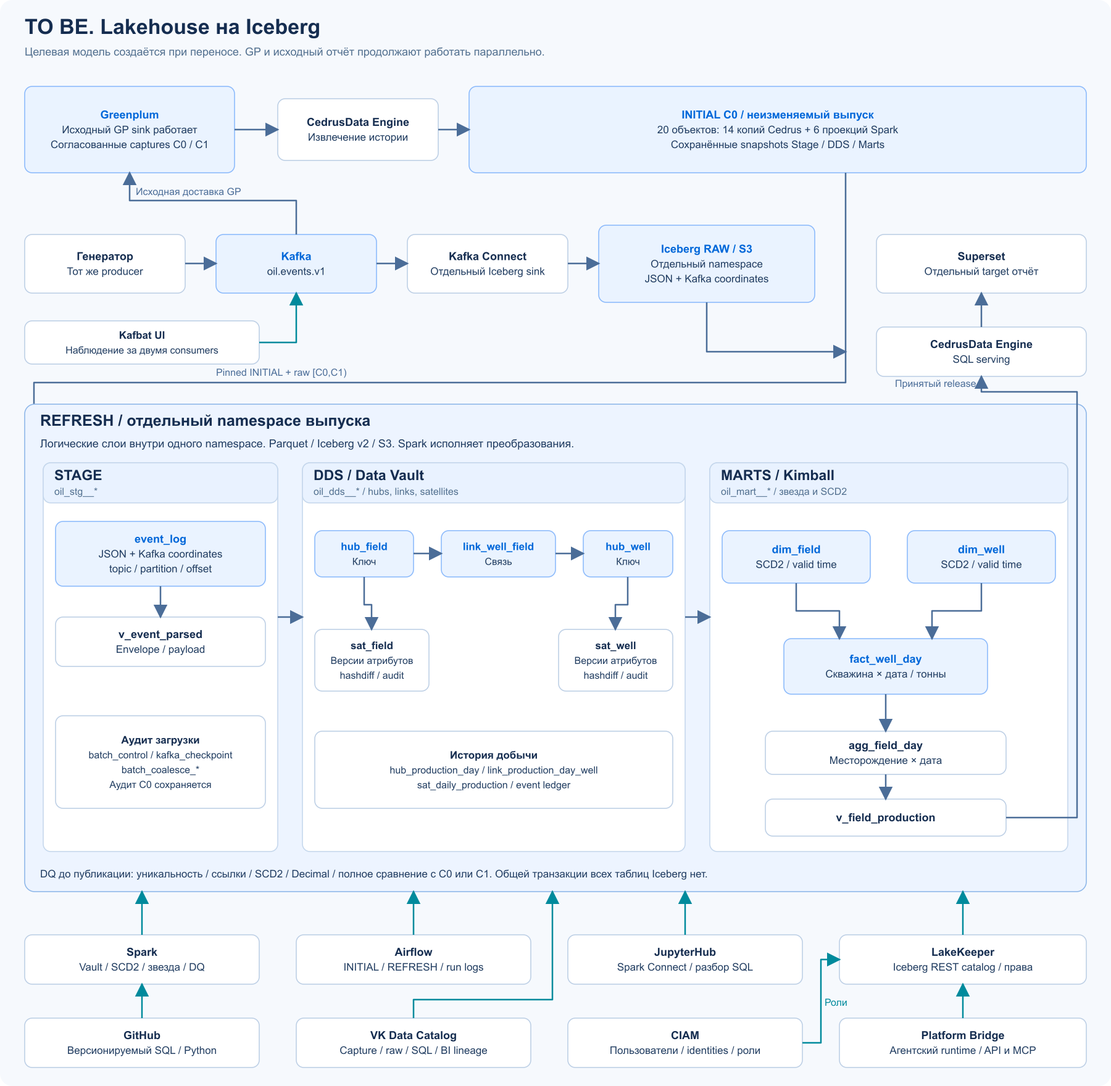
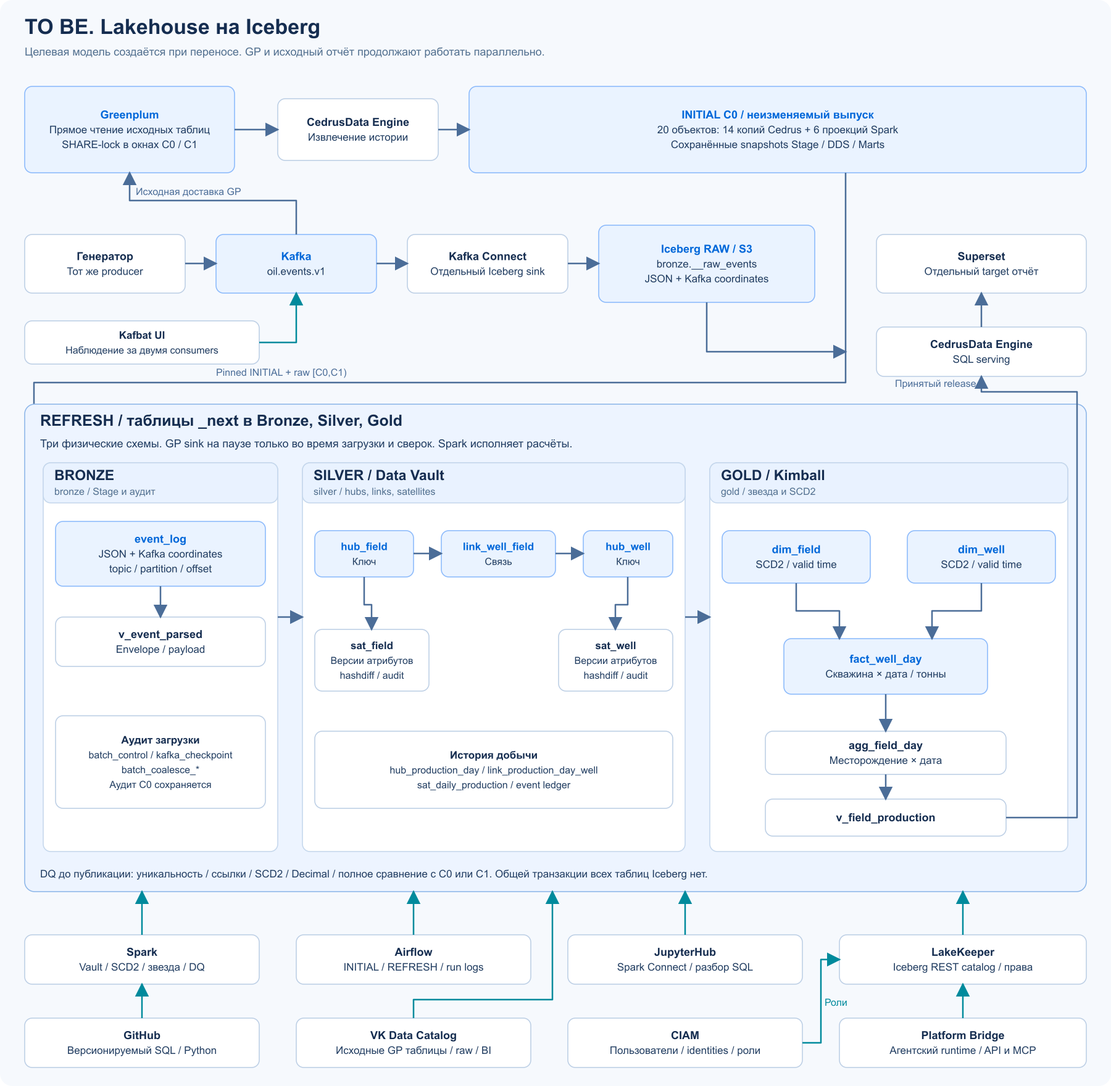
Read original Greenplum tables under verified native source locks

diff --git a/pipelines/oil_layered_migration/oil_layered_runtime.py b/pipelines/oil_layered_migration/oil_layered_runtime.py
@@ -12,8 +12,7 @@ from pathlib import Path
 from oil_layered_plan import OPERATIONS
 
 LAYERS = {'oil_stg': 'bronze', 'oil_dds': 'silver', 'oil_mart': 'gold'}
-CAPTURES = {'initial': 'pbc_00000000000000000001_00000001',
-            'refresh': 'pbc_00000000000000000001_00000002'}
+BOUNDARIES = {'initial': 'C0', 'refresh': 'C1'}
 RAW = 'dlh.bronze.__raw_events'
 
 
@@ -30,7 +29,7 @@ def overlap_window(p0, p1, overlap_offsets=10):
 def target(symbol, mode='initial'):
     """Resolve a fixed source symbol to its explicit physical Lakehouse table."""
     schema, name = symbol.split('__', 1)
-    if schema not in LAYERS or mode not in CAPTURES or not re.fullmatch(r'[a-z][a-z0-9_]*', name):
+    if schema not in LAYERS or mode not in BOUNDARIES or not re.fullmatch(r'[a-z][a-z0-9_]*', name):
         raise ValueError('Unknown object or release')
     return 'dlh.' + LAYERS[schema] + '.' + name + ('_next' if mode == 'refresh' else '')
 
@@ -50,9 +49,9 @@ def atomic_write(path, state):
 
 
 class Runner:
-    def __init__(self, client, mode, run_id, state_dir=None, sql_dir=None, spark_factory=None, overlap_offsets=10):
+    def __init__(self, client, mode, run_id, state_dir=None, sql_dir=None, spark_factory=None, overlap_offsets=10, source_guard=None):
         """Bind a single DAG run to reviewed SQL, private receipts and fixed target names."""
-        if mode not in CAPTURES:
+        if mode not in BOUNDARIES:
             raise ValueError('mode must be initial or refresh')
         self.client, self.mode, self.run_id = client, mode, str(run_id)
         self.root = Path(state_dir or os.environ.get('OIL_LAYERED_STATE_DIR', '/opt/airflow/logs/oil_layered_migration'))
@@ -60,11 +59,15 @@ class Runner:
         self.sql_dir = Path(sql_dir or Path(__file__).parent / 'sql')
         self.spark_factory = spark_factory
         self.overlap_offsets = overlap_offsets
+        if source_guard is None:
+            raise ValueError('A verified native source lock is required')
+        self.source_guard = source_guard
 
     def contract_hash(self):
         """Pin the plan, runtime and exact native SQL before any target write."""
         sources = {p.relative_to(self.sql_dir).as_posix(): p.read_text() for p in sorted(self.sql_dir.rglob('*.sql'))}
-        return fingerprint({'operations': OPERATIONS, 'sql': sources, 'runtime': Path(__file__).read_text()})
+        guard_path = Path(__file__).with_name('oil_source_lock.py')
+        return fingerprint({'operations': OPERATIONS, 'sql': sources, 'runtime': Path(__file__).read_text(), 'source_guard': guard_path.read_text()})
 
     def load(self):
         """Reject another run's receipt before trusting any completed operation."""
@@ -92,19 +95,13 @@ class Runner:
         rows = self.client.sql('SHOW CREATE TABLE ' + table)
         return fingerprint(rows)
 
-    def manifest(self, capture_id):
-        """Read a previously committed source capture; never capture or mutate GP here."""
-        if capture_id not in CAPTURES.values():
-            raise ValueError('Unknown capture')
-        rows = self.client.sql("SELECT manifest FROM greenplum_gp.bridge_capture.registry WHERE capture_id='" + capture_id + "'")
-        if len(rows) != 1:
-            raise ValueError('Create and COMMIT the source capture first')
-        value = rows[0]['manifest']
-        value = json.loads(value) if isinstance(value, str) else value
+    def manifest(self):
+        """Describe live committed source tables protected by the operator's native locks."""
+        value = self.source_guard.inspect(self.mode, OPERATIONS, self.client)
         if value.get('source_checks') != 'PASS' or value.get('topic') != 'oil.events.v1':
-            raise ValueError('Source capture did not pass its contract')
+            raise ValueError('Locked source did not pass its contract')
         if set(value['tables']) != {o['symbol'] for o in OPERATIONS}:
-            raise ValueError('Capture must contain exactly the approved 20 objects')
+            raise ValueError('Boundary must contain exactly the approved 20 objects')
         return value
 
     def prepare(self):
@@ -115,7 +112,7 @@ class Runner:
         if pointer.exists():
             raise FileExistsError('This release is already accepted; do not overwrite it')
         state = {'run_id': self.run_id, 'mode': self.mode, 'status': 'PREPARED',
-                 'manifest': self.manifest(CAPTURES[self.mode]), 'steps': {}, 'targets': {}, 'checks': [], 'contract_hash': self.contract_hash()}
+                 'manifest': self.manifest(), 'steps': {}, 'targets': {}, 'checks': [], 'contract_hash': self.contract_hash()}
         for op in OPERATIONS:
             table = target(op['symbol'], self.mode)
             if self.count(table) != 0:
@@ -151,12 +148,13 @@ class Runner:
                 if time.monotonic() >= deadline:
                     raise ValueError('Raw window is incomplete; no target data was written')
                 time.sleep(2)
+        self.source_guard.assert_held()
         self.save(state)
-        print(json.dumps({'status': 'PREPARED', 'mode': self.mode, 'capture_id': state['manifest']['capture_id'], 'receipt': str(self.path), 'window': state.get('window'), 'raw_snapshot': state.get('raw_snapshot')}))
+        print(json.dumps({'status': 'PREPARED', 'mode': self.mode, 'boundary_id': state['manifest']['boundary_id'], 'source_lock': state['manifest']['source_lock'], 'receipt': str(self.path), 'window': state.get('window'), 'raw_snapshot': state.get('raw_snapshot')}))
         return {'receipt': str(self.path), 'targets': 20}
 
     def render(self, query, dialect, state):
-        """Resolve only approved objects, pinned INITIAL/raw snapshots and capture tables."""
+        """Resolve original GP objects under native locks and pinned INITIAL/raw snapshots."""
         def replace(match):
             """Substitute one fixed source, target or historical reference."""
             side, symbol = match.groups()
@@ -169,9 +167,9 @@ class Runner:
                 return '(SELECT * FROM ' + target(symbol) + ' WHERE false)' if snap is None else target(symbol) + (' VERSION AS OF ' if dialect == 'spark' else ' FOR VERSION AS OF ') + str(snap)
             source = state['manifest']['tables'][symbol]
             name = source['table']
-            if source['schema'] != 'bridge_capture' or not re.fullmatch(r'pbc_[a-f0-9]{20}_[a-f0-9]{8}_[a-f0-9]{12}', name):
-                raise ValueError('Invalid source copy identity')
-            return 'greenplum_gp.bridge_capture.' + name
+            if (source['schema'], name) != tuple(symbol.split('__', 1)):
+                raise ValueError('Source relation differs from the reviewed object')
+            return 'greenplum_gp.' + source['schema'] + '.' + name
         value = re.sub(r'\{\{(source|target|initial):([^}]+)\}\}', replace, query)
         if '{{delta}}' in value:
             windows = ['(kafka_partition={partition} AND kafka_offset>={read_start} AND kafka_offset<{end})'.format(**p) for p in state['window']]
@@ -187,6 +185,7 @@ class Runner:
     def materialize(self, symbol):
         """Write one table, validate its keys/data, then permit dependent tasks to proceed."""
         state = self.load()
+        self.source_guard.assert_held()
         op = next(o for o in OPERATIONS if o['symbol'] == symbol)
         if state['status'] not in ('PREPARED', 'BUILDING') or symbol in state['steps']:
             raise ValueError('Run is not writable or the task was already attempted')
@@ -232,6 +231,7 @@ class Runner:
                     spark.close()
                 except Exception:
                     pass
+        self.source_guard.assert_held()
         for check in op['checks']:
             if check['phase'] not in ('both', self.mode):
                 continue
@@ -243,6 +243,7 @@ class Runner:
             self.save(state)
             if result[0]['n'] != 0:
                 raise ValueError('Quality gate failed: ' + symbol + '.' + check['name'])
+        self.source_guard.assert_held()
         state['steps'][symbol]['state'] = 'VALIDATED'
         self.save(state)
         print(json.dumps({'table': table, 'status': 'VALIDATED', 'snapshot': state['steps'][symbol]['snapshot']}))
@@ -251,6 +252,7 @@ class Runner:
     def validate_all(self):
         """Accept all twenty tables only when all phase checks and snapshot identities match."""
         state = self.load()
+        self.source_guard.assert_held()
         if set(state['steps']) != {o['symbol'] for o in OPERATIONS}:
             raise ValueError('Not all twenty tables were materialized')
         for symbol, step in state['steps'].items():

diff --git a/pipelines/oil_layered_migration/oil_source_lock.py b/pipelines/oil_layered_migration/oil_source_lock.py
@@ -1,0 +1,91 @@
+"""Verify an operator-held GP transaction instead of materializing source copies.
+
+Cedrus connections do not share an external snapshot. Native SHARE locks keep
+the committed source stable for every reader until INITIAL/REFRESH is checked.
+"""
+from datetime import datetime, timezone
+import re
+
+SCHEMAS = ('oil_stg', 'oil_dds', 'oil_mart')
+
+
+def connect_source():
+    """Use the existing Airflow identity only for read-only lock inspection."""
+    from airflow.models.connection import Connection
+    import psycopg2
+    c = Connection.get_connection_from_secrets('webinar_greenplum')
+    options = {k: v for k, v in c.extra_dejson.items()
+               if k in {'sslmode', 'sslrootcert', 'sslcert', 'sslkey', 'sslcrl', 'options'}}
+    return psycopg2.connect(host=c.host, port=c.port or 5432, dbname=c.schema,
+                            user=c.login, password=c.password, connect_timeout=15, **options)
+
+
+class SourceLock:
+    def __init__(self, token, connection_factory=connect_source):
+        """Bind the exact backend and virtual transaction, never just a reusable PID."""
+        if not isinstance(token, dict) or set(token) != {'pid', 'database_oid', 'virtualtransaction'}:
+            raise ValueError('Provide source_lock JSON printed by the GP lock script')
+        if any(type(token[k]) is not int or token[k] <= 0 for k in ['pid', 'database_oid']):
+            raise ValueError('Invalid source lock identity')
+        if not re.fullmatch(r'[0-9]+/[0-9]+', str(token['virtualtransaction'])):
+            raise ValueError('Invalid source virtual transaction')
+        self.token, self.connection_factory = dict(token), connection_factory
+
+    def assert_held(self):
+        """Require all source tables to retain granted write-blocking locks in that transaction."""
+        db = self.connection_factory()
+        try:
+            with db.cursor() as cur:
+                cur.execute("SELECT oid FROM pg_database WHERE datname=current_database()")
+                if int(cur.fetchone()[0]) != self.token['database_oid']:
+                    raise ValueError('Source database identity changed')
+                cur.execute("""SELECT n.nspname,c.relname,c.oid,
+                    EXISTS(SELECT 1 FROM pg_locks l WHERE l.pid=%s AND l.database=%s
+                        AND l.virtualtransaction=%s AND l.relation=c.oid AND l.granted
+                        AND (l.mode IN ('ShareLock','ShareRowExclusiveLock','ExclusiveLock','AccessExclusiveLock')
+                             OR (c.relkind='v' AND l.mode='AccessShareLock')))
+                    FROM pg_class c JOIN pg_namespace n ON n.oid=c.relnamespace
+                    WHERE n.nspname IN ('oil_stg','oil_dds','oil_mart')
+                        AND (c.relkind='r' OR (n.nspname='oil_stg' AND c.relname='v_event_parsed')
+                             OR (n.nspname='oil_mart' AND c.relname='v_field_production'))
+                    ORDER BY n.nspname,c.relname""",
+                    (self.token['pid'], self.token['database_oid'], self.token['virtualtransaction']))
+                relations = cur.fetchall()
+                if not relations or any(not row[3] for row in relations):
+                    raise ValueError('Source write lock was released or does not cover every source table')
+                cur.execute("""SELECT n.nspname,c.relname,c.oid FROM pg_class c
+                    JOIN pg_namespace n ON n.oid=c.relnamespace
+                    WHERE n.nspname IN ('oil_stg','oil_dds','oil_mart') AND c.relkind IN ('r','v')""")
+                return {(r[0], r[1]): int(r[2]) for r in cur.fetchall()}
+        finally:
+            db.rollback()
+            db.close()
+
+    def inspect(self, mode, operations, client):
+        """Read committed, fully applied source data while the separate operator transaction holds locks."""
+        identities = self.assert_held()
+        checks = {
+            'unapplied_batches': "SELECT count(*) n FROM greenplum_gp.oil_stg.batch_control WHERE source_name='kafka:oil.events.v1' AND status IN ('OPEN','READY','FAILED')",
+            'rejects': 'SELECT count(*) n FROM greenplum_gp.oil_stg.event_reject',
+            'stage_ledger': "SELECT count(*) n FROM greenplum_gp.oil_stg.event_log s LEFT JOIN greenplum_gp.oil_dds.event d ON d.event_id=json_extract_scalar(s.event_json,'$.event_id') WHERE s.topic='oil.events.v1' AND (d.event_id IS NULL OR d.event_document<>s.event_json)",
+            'coalesced_batches': "SELECT count(*) n FROM greenplum_gp.oil_stg.batch_coalesce_map m LEFT JOIN greenplum_gp.oil_stg.batch_control b ON b.batch_id=m.coalesced_batch_id WHERE b.batch_id IS NULL OR b.status<>'APPLIED'",
+        }
+        for name, query in checks.items():
+            if client.sql(query) != [{'n': 0}]:
+                raise ValueError('Source is not fully applied: ' + name + '; release locks and finish the source DAG')
+        positions = client.sql("SELECT kafka_partition,next_offset FROM greenplum_gp.oil_stg.kafka_checkpoint WHERE topic='oil.events.v1' ORDER BY kafka_partition")
+        if not positions or len({r['kafka_partition'] for r in positions}) != len(positions):
+            raise ValueError('Source checkpoints missing or ambiguous')
+        tables = {}
+        for op in operations:
+            schema, table = op['symbol'].split('__', 1)
+            if schema not in SCHEMAS or not re.fullmatch(r'[a-z][a-z0-9_]*', table):
+                raise ValueError('Source outside reviewed scope')
+            tables[op['symbol']] = {'schema': schema, 'table': table,
+                'oid': identities[(schema, table)], 'columns': op['columns'],
+                'rows': client.sql('SELECT count(*) n FROM greenplum_gp.' + schema + '.' + table)[0]['n']}
+        self.assert_held()
+        return {'boundary_id': 'C0' if mode == 'initial' else 'C1', 'provider': 'gp_locked_source',
+                'source_lock': self.token, 'source_checks': 'PASS', 'topic': 'oil.events.v1',
+                'captured_at': datetime.now(timezone.utc).isoformat(), 'tables': tables,
+                'partitions': [{'partition': int(r['kafka_partition']), 'end': int(r['next_offset'])} for r in positions]}

diff --git a/dags/oil_layered_migration/oil_layered_migration.py b/dags/oil_layered_migration/oil_layered_migration.py
@@ -14,6 +14,7 @@ from oil_layered_plan import OPERATIONS
 from oil_layered_runtime import Runner
 from oil_layered_cedrus import MCP
 from oil_layered_spark import SparkClient
+from oil_source_lock import SourceLock
 
 
 # Один task выполняет только выбранную операцию; журнал привязан к фактическому Airflow run_id.
@@ -22,7 +23,8 @@ def execute(action, symbol=None, **context):
     mode = (context['dag_run'].conf or {}).get('mode')
     client = MCP(os.environ['OIL_TRINO_MCP_URL'], os.environ.get('OIL_MCP_CA_FILE'), os.environ.get('OIL_MCP_BEARER_FILE'))
     runner = Runner(client, mode, context['run_id'], spark_factory=lambda: SparkClient('bridge_' + uuid.uuid4().hex),
-                    overlap_offsets=(context['dag_run'].conf or {}).get('overlap_offsets', 10))
+                    overlap_offsets=(context['dag_run'].conf or {}).get('overlap_offsets', 10),
+                    source_guard=SourceLock((context['dag_run'].conf or {}).get('source_lock')))
     if action == 'table':
         return runner.materialize(symbol)
     return getattr(runner, action)()

diff --git a/pipelines/oil_layered_migration/README.md b/pipelines/oil_layered_migration/README.md
@@ -1,19 +1,15 @@
-# Сквозной перенос добычи по слоям
+# Перенос добычи с прямым чтением Greenplum
 
-`oil_layered_runtime.py` исполняет INITIAL/REFRESH, `oil_layered_plan.py` задаёт 20 объектов и настоящие зависимости из SQL и проверок. Исполняемый SQL хранится в соседних папках `production_online/<symbol>`, отдельные phase-aware проверки — в `checks/` каждого объекта. `oil_layered_cedrus.py` использует существующую сервисную авторизацию Cedrus MCP.
+`oil_layered_runtime.py` исполняет INITIAL/REFRESH, `oil_layered_plan.py` задаёт 20 объектов и зависимости, SQL лежит в `production_online/<symbol>`, отдельные проверки — в `checks/`. `oil_source_lock.py` проверяет стандартные блокировки исходной транзакции. `oil_layered_cedrus.py` использует существующую авторизацию Cedrus MCP.
 
-Исходный `oil_stg` отображается в `bronze`, `oil_dds` — в `silver`, `oil_mart` — в `gold`. INITIAL сохраняет имена исходных объектов: `gold.fact_well_day`. REFRESH строится отдельно в таблицах с суффиксом `_next`. Landing-поток пишет `bronze.__raw_events` и не очищается компенсацией.
+Источник `oil_stg` отображается в Bronze (6 объектов), `oil_dds` — Silver (9), `oil_mart` — Gold (5). Независимый Kafka sink пишет седьмую Bronze-таблицу `__raw_events`. INITIAL сохраняет исходные имена; REFRESH строит отдельные `_next`.
 
-Каждая задача проверяет завершение родителей, пустоту цели и её определение/location; выполняет один INSERT в Cedrus или Spark; фиксирует snapshot и исполняет проверки. Для INITIAL суммарно 60 проверок, для REFRESH — 53. Расчёт ключей, версий и интервалов остаётся в SQL/Spark. Airflow управляет зависимостями и не заменяет вычислительный движок.
+Перед каждой границей оператор приостанавливает GP sink и source DAG, завершает READY-партии и открывает административную транзакцию SHARE-lock. Cedrus читает исходные таблицы напрямую. Служебная схема и копии источника не участвуют. Пока идут загрузка и сверки, Kafka/raw принимают новые сообщения, а исходный GP остаётся доступным для чтения на последнем рассчитанном состоянии.
 
-Компенсирующий откат восстанавливает пустое содержимое только кандидатных таблиц текущего запуска, в обратном порядке. Он не отменяет события Kafka, обработку GP, raw или принятый INITIAL во время REFRESH. Snapshot history не стирается: это компенсация данных, а не распределённая ACID-транзакция. Кандидат имеет одного писателя — этот DAG, автоматические retries отключены.
+Конфигурация Trigger DAG содержит `mode` и `source_lock` с PID, database_oid и virtualtransaction из psql. Runtime проверяет действительные locks до/после операций и перед READY. PID без идентификатора транзакции недостаточен. При потере окна новый выпуск не принимается. После READY и ручных сверок оператор COMMIT/ROLLBACK снимает locks и возобновляет GP connector и source DAG; SQL target записан отдельными операциями и этим COMMIT не управляется.
 
-При UNKNOWN_OUTCOME, изменившемся snapshot/location или сбое самой компенсации выпуск переходит в MANUAL_RECONCILE. Данные не удаляются вслепую и отчёт не переключается. Нужно сверить query/kernel receipt и актуальное состояние таблицы. Успешная компенсация оставляет итоговый DAG run неуспешным.
+Airflow задаёт порядок, SQL/Spark вычисляют ключи, версии и SCD2. INITIAL включает 14 Cedrus / 6 Spark операций и 60 проверок; REFRESH — 5 Cedrus / 15 Spark и 53 проверки. REFRESH закрепляет snapshots INITIAL/raw, читает полное окно C0–C1 с перекрытием по умолчанию 10 offsets перед C0, исключает повторы координат и event_id. Конфликт payload блокирует выпуск. SQL MERGE в принятые таблицы не выполняется.
 
-Файлы READY в `/opt/airflow/logs/oil_layered_migration/` содержат реальные запросы, snapshots и сверки. Они не хранят секреты и не публикуются в Git. Код не переключает Superset автоматически: после READY оператор проверяет доступы и бизнес-результат, затем меняет binding отчёта.
+Каждая запись журналируется до исполнения; snapshot, реальный SQL и DQ сохраняются в `/opt/airflow/logs/oil_layered_migration/`. Подтверждённые записи неуспешного кандидата компенсируются в обратном порядке. Raw, источник и принятый INITIAL не очищаются. UNKNOWN_OUTCOME или чужой snapshot/location ведут в MANUAL_RECONCILE без слепого удаления. Компенсация не делает run успешным.
 
-REFRESH по умолчанию повторно читает десять offsets до C0 в каждой партиции. Логическая граница остаётся C0–C1, а `read_start` явно показывает перекрытие. Stage исключает повторы координат, DDS исключает повторы event_id, новая бизнес-версия применяется по entity_version. Разный payload для одинаковой координаты/event_id не замалчивается, а блокируется DQ. Можно задать `overlap_offsets` от 0 до 10000 в конфигурации DAG. Timestamp-overlap не заменяет CDC для изменений GP вне Kafka.
-
-Например, C0=100 и C1=110 при overlap_offsets=10 дают чтение offsets 90–109: 90–99 повторно сверяются, 100–109 дополняют историю. Это позиции Kafka, а не минуты. Не используем фильтр по времени начала транзакции или event_time как доказательство полноты. Capture сериализуется с GP sink через checkpoint; поздний коммит учитывается по применённой позиции.
-
-SQL MERGE здесь не выполняется: отдельный `_next` строится из INITIAL и перекрывающегося окна с детерминированной дедупликацией. Принятый отчёт остаётся доступным до READY и проверки доступа. События после C1 остаются в raw для следующего цикла. Кратковременное ожидание GP writers во время capture возможно; непрерывное чтение отчёта не означает нулевую задержку записи и нулевой lag.
+После освобождения исходных locks live GP уже может быть впереди. Source-зависимые проверки receipts можно повторять только в соответствующем удерживаемом окне; для дальнейшего аудита сохраняют их фактические результаты и target snapshots. Публикация Superset — отдельная проверка после READY. Код и регистрация Catalog не означают уже выполненный перенос.

diff --git a/dags/oil_layered_migration/README.md b/dags/oil_layered_migration/README.md
@@ -1,9 +1,3 @@
-# oil_layered_migration
+# Перенос трёх слоёв
 
-Ручной DAG переноса первой цепочки добычи. Trigger config: `{"mode":"initial"}` после committed capture C0; `{"mode":"refresh"}` после C1 и создания таблиц `_next`.
-
-Graph содержит 24 tasks: preflight, 20 последовательно загружаемых и проверяемых объектов Bronze/Silver/Gold, общую сверку, компенсацию при сбое и финальное подтверждение READY. Начинать дочерний объект до проверки родителей запрещено.
-
-Исходный `oil_gp_release` работает отдельно каждую минуту при включённом расписании. Kafka producer запускается до C0. Исторические чтения используют служебные GP copies, а REFRESH — закреплённый INITIAL и полное raw-окно C0–C1. GP writes могут ожидать короткую capture-транзакцию; на время исторической загрузки источник не блокируется.
-
-При сбое подтверждённые записи кандидата компенсируются; при неизвестном исходе выпуск закрыт до сверки. Clear/retry задач после INSERT не применяется вслепую. Смена чтения Superset — отдельное действие после READY и проверки прав.
+24 задачи: preflight, 20 объектных операций, общая сверка, компенсация и READY. Config содержит mode и source_lock из открытой административной GP-транзакции; REFRESH допускает overlap_offsets. Без действительных SHARE-lock всех исходных таблиц загрузка запрещена. Оператор держит транзакцию до завершения сверок, затем снимает блокировки и возобновляет исходный ingestion.

diff --git a/architecture/README.md b/architecture/README.md
@@ -1,7 +1,9 @@
 # TO BE / Lakehouse
 
-Kafka raw хранится отдельно. INITIAL закрепляет исторический выпуск C0. REFRESH использует этот INITIAL и полное raw-окно C0/C1. Stage, DDS и Marts — логические группы таблиц oil_stg__*, oil_dds__*, oil_mart__* внутри namespace выпуска, а не три выдуманные физические схемы.
+Три физические схемы: Bronze — шесть объектов Stage и Kafka landing, Silver — девять объектов Data Vault, Gold — пять объектов Kimball и отчёта добычи. INITIAL сохраняет исходные имена; REFRESH строит отдельные `_next` в тех же схемах.
+
+Cedrus читает исходные таблицы GP напрямую под стандартными SHARE-lock. Перед окном GP sink и source DAG приостанавливаются, принятые партии доводятся до APPLIED. Генератор и Iceberg sink продолжают работу. После загрузки и сверок транзакция GP закрывается и ingestion возобновляется. Служебные копии источника в этом маршруте отсутствуют.
 
 Синие стрелки показывают данные и связи моделей, бирюзовые — управление или метаданные. SVG — редактируемый оригинал, PNG — версия для просмотра. Схема описывает архитектуру; сама не создаёт объекты.
 
-![AS IS и TO BE: слои внутри хранилищ](architecture-for-web.png)
+![Lakehouse и три физических слоя](to-be-services.png)
